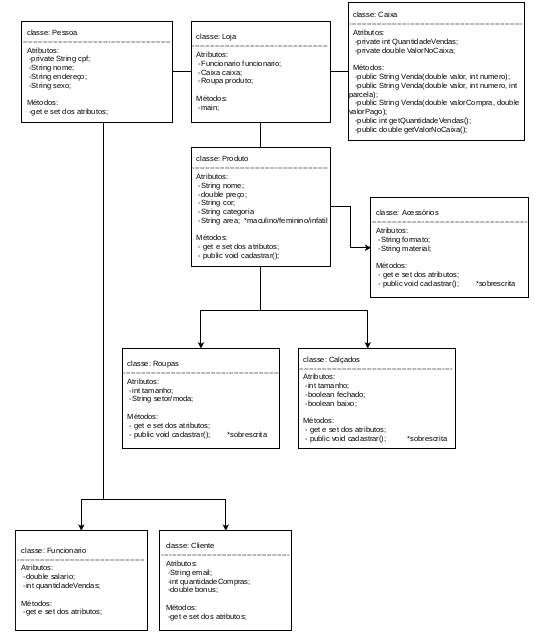
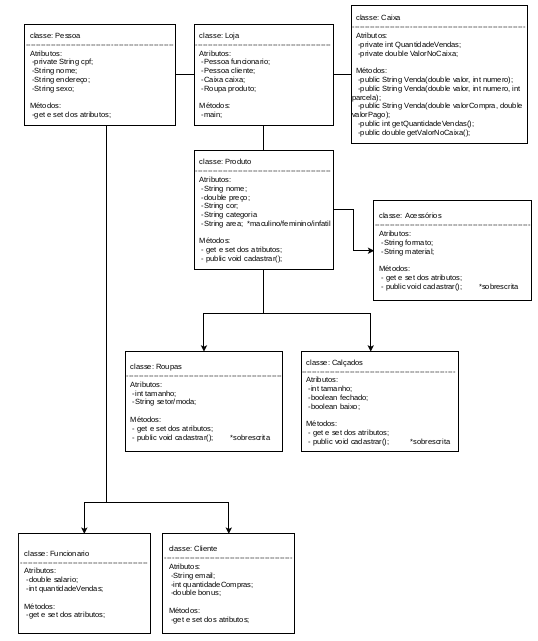
atualizacao diagrama dia 2

Changed region(s): [[0.0299, 0.0, 0.9869, 0.9828], [0.6579, 0.2978, 0.9869, 0.4765], [0.5383, 0.8339, 0.5682, 0.9828]]

diff --git a/MiniProjeto/LojaDeRoupa/Loja.java b/MiniProjeto/LojaDeRoupa/Loja.java
@@ -1,18 +1,22 @@
 package LojaDeRoupa;
 
 public class Loja {
-	Funcionario funcionario;
+	Pessoa funcionario;
+	Pessoa cliente;
 	Caixa caixa;
 	Produto produto;
 	
-	public Loja(Funcionario funcionario, Caixa caixa) {
+	public Loja(Pessoa funcionario, Caixa caixa) {
 		this.funcionario = funcionario;
 		this.caixa = caixa;
 	}
 	
 	public static void main(String[] args) {
 		
-
+		Funcionario func = new Funcionario();
+		func.setNome("henrrique");
+		
+		
 	}
 
 	
